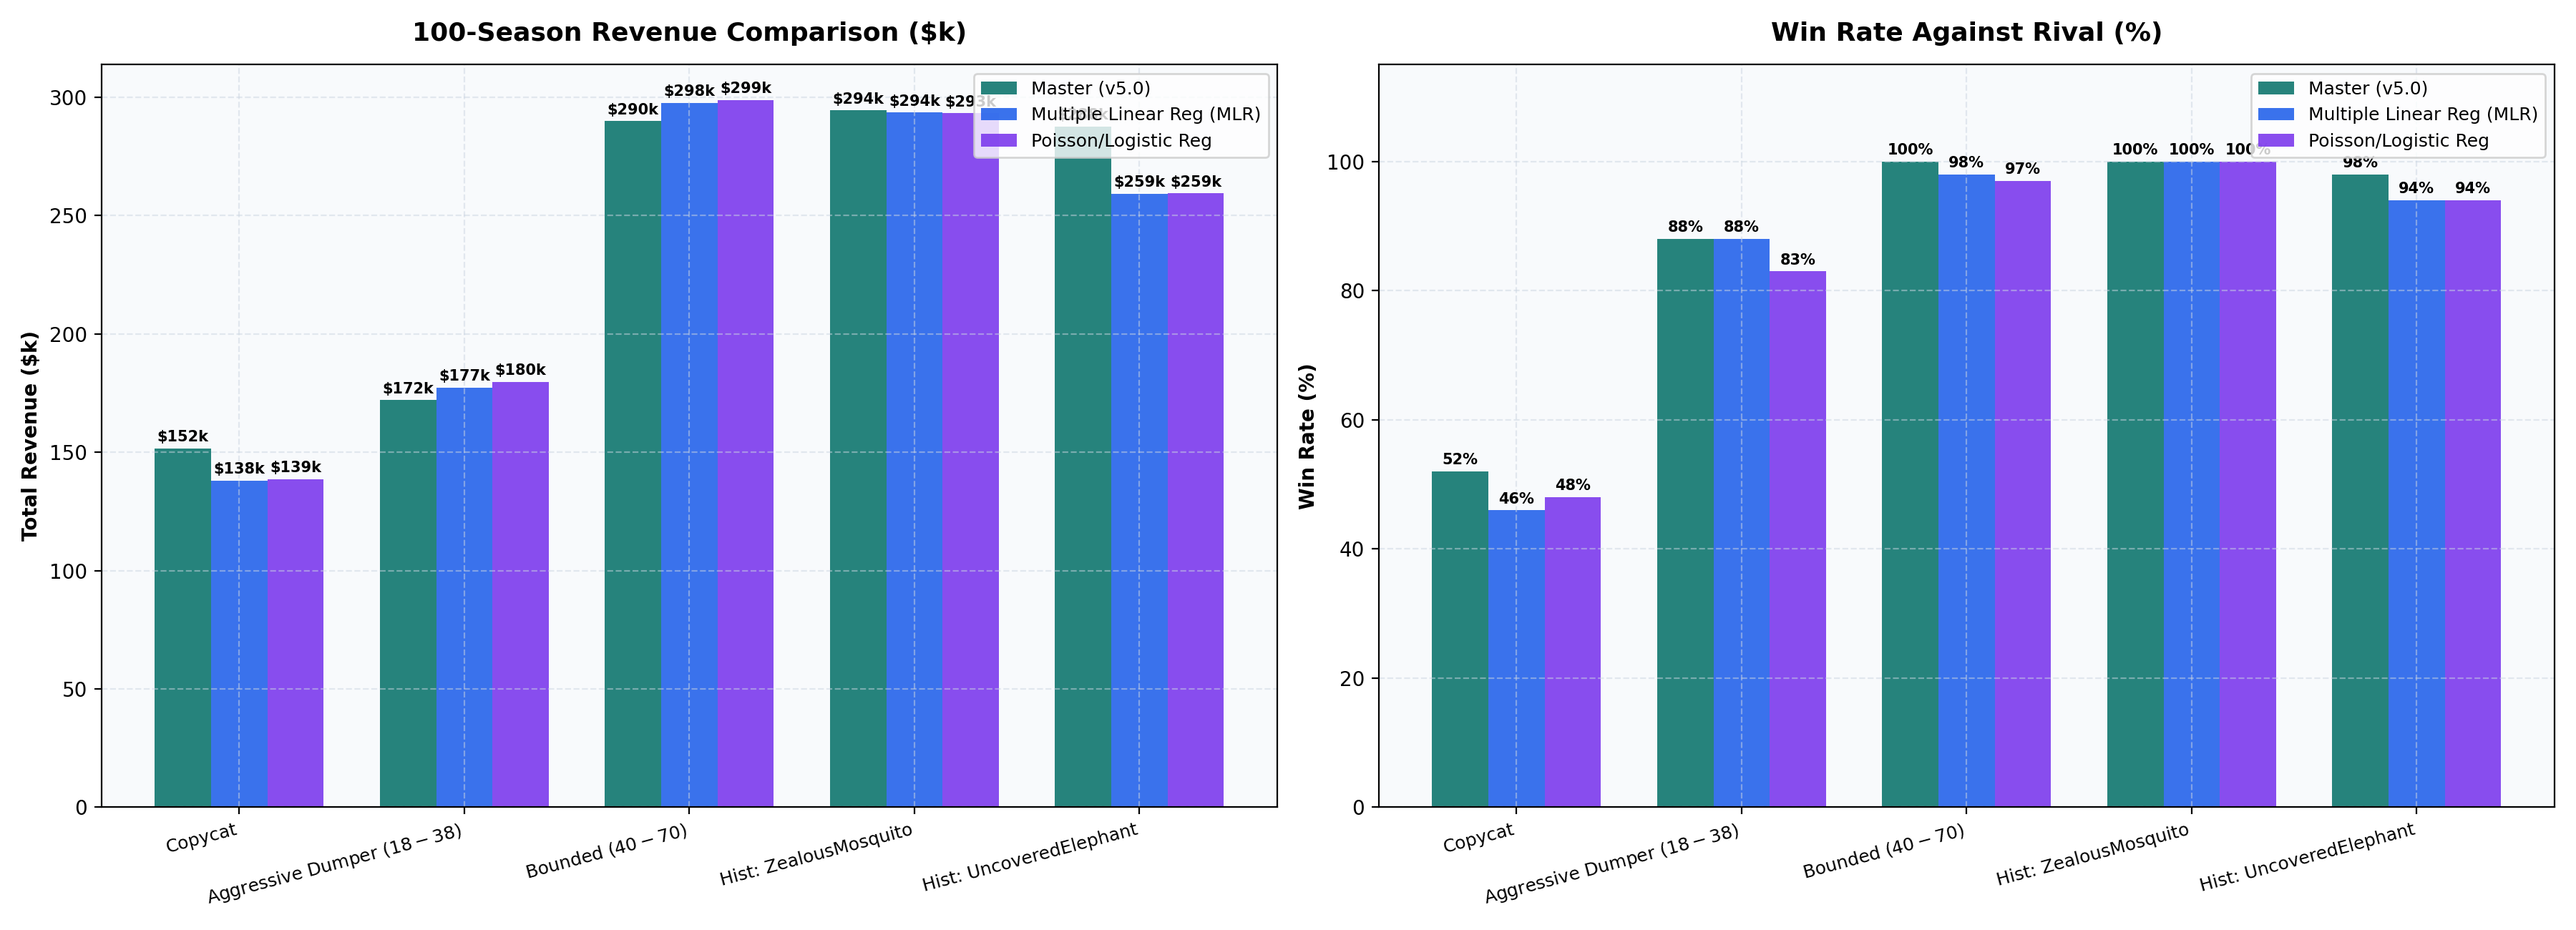
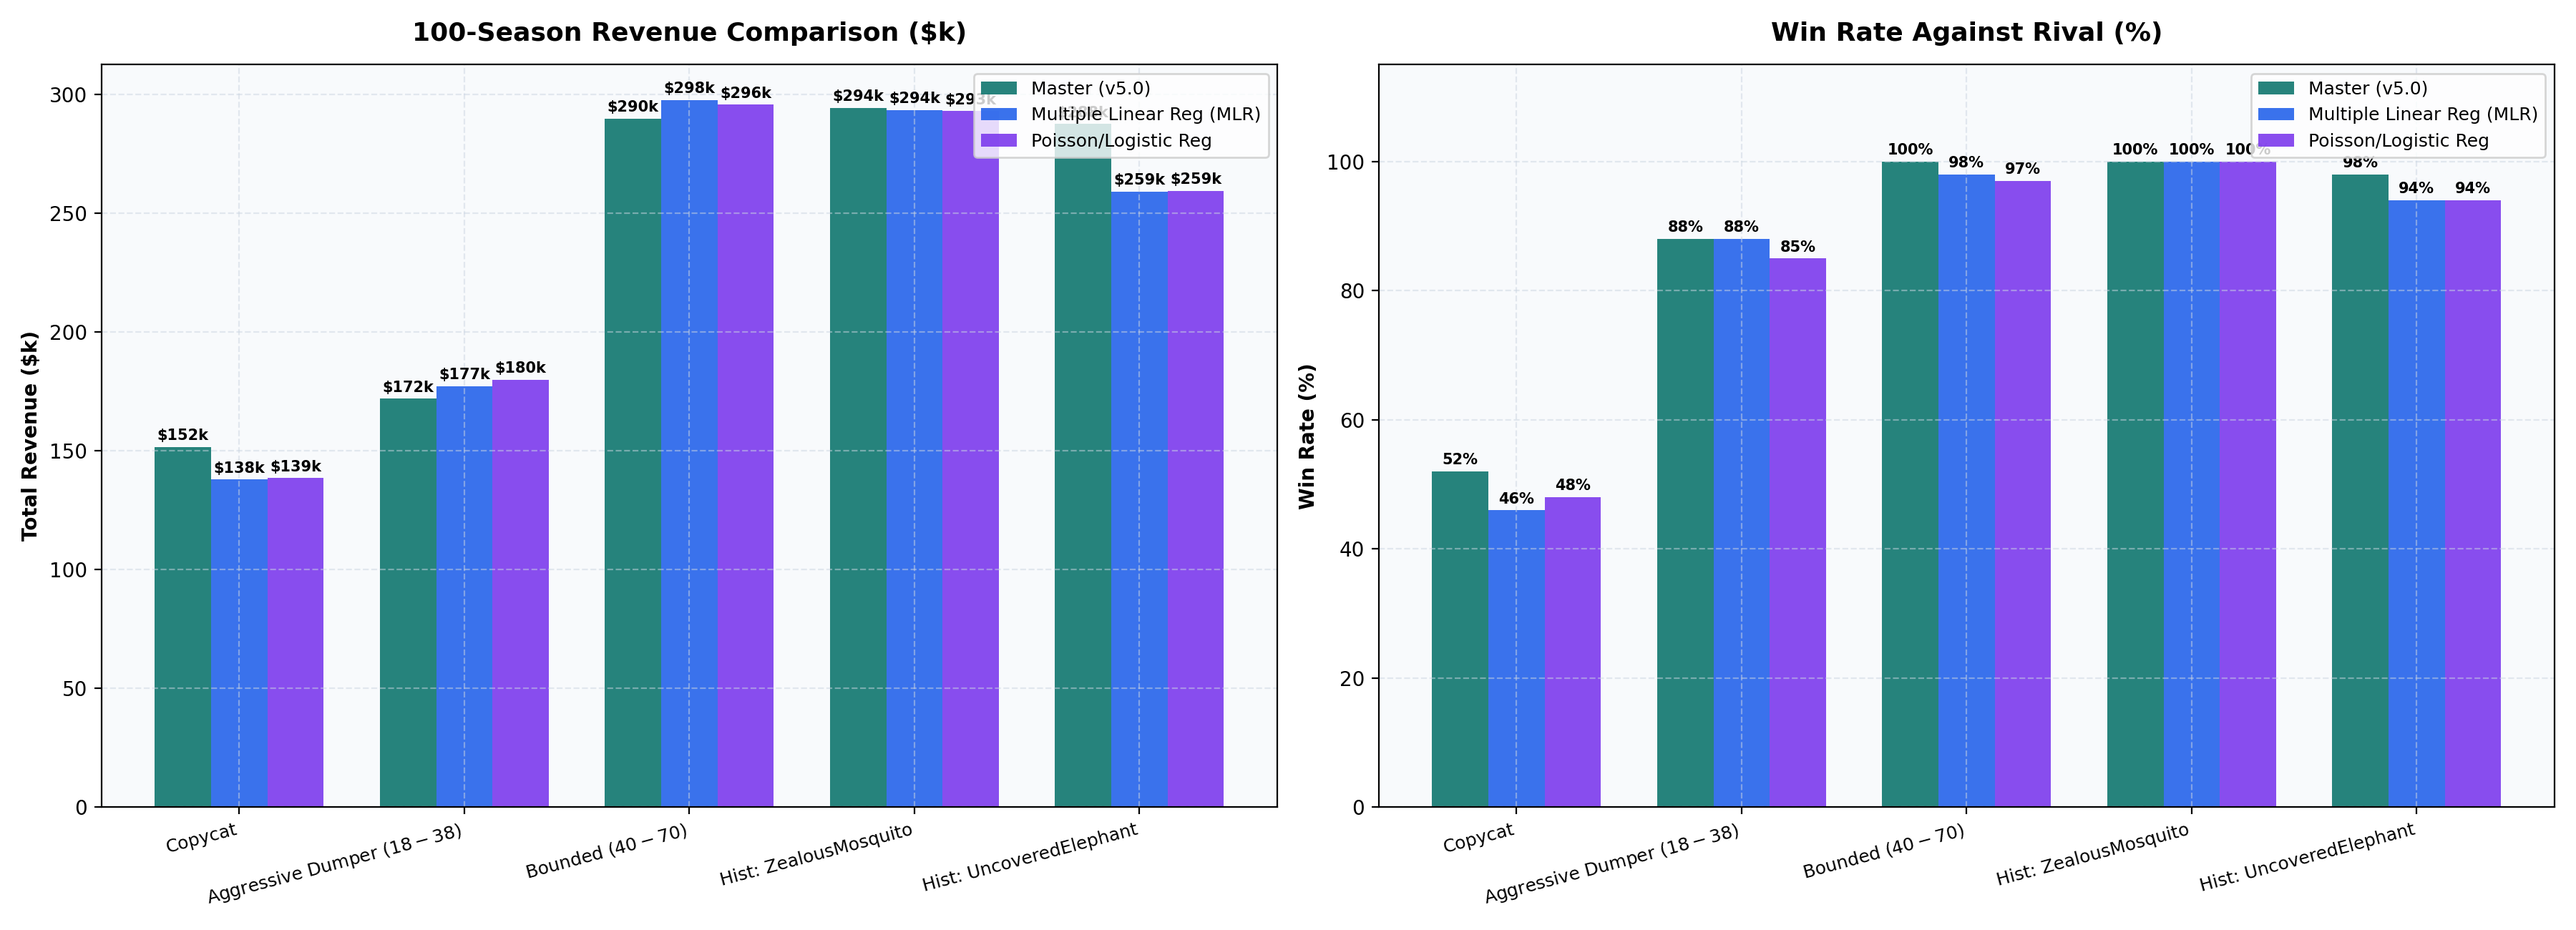
feat: implement intra-season holdout horizon guard and 3-regime profiler for MLR and Poisson-Logit

diff --git a/analytics/benchmark_3regime_models.py b/analytics/benchmark_3regime_models.py
@@ -1,0 +1,121 @@
+"""
+analytics/benchmark_3regime_models.py
+------------------------------------
+Head-to-head evaluation across 3 distinct macroeconomic market regimes:
+- Regime 1: High WTP (Valuations $45-$115, Premium travelers like v1/v4)
+- Regime 2: Medium WTP (Valuations $35-$92, Standard balanced market like v3)
+- Regime 3: Low WTP / Volume Surge (Valuations $25-$78, High volume like v5)
+
+Competitors:
+- CopycatCompetitor
+- AggressiveDumperCompetitor ($18-$38)
+- BoundedCompetitor ($40-$70)
+"""
+
+import os
+import sys
+import numpy as np
+import pandas as pd
+
+ROOT_DIR = os.path.abspath(os.path.join(os.path.dirname(__file__), '..'))
+ANALYTICS_DIR = os.path.join(ROOT_DIR, 'analytics')
+sys.path.append(ROOT_DIR)
+sys.path.append(ANALYTICS_DIR)
+
+import duopoly
+import duopoly_mlr
+import duopoly_poisson_logit
+
+from simulation_engine import (
+    DuopolySimulator,
+    CopycatCompetitor,
+    AggressiveDumperCompetitor,
+    BoundedCompetitor,
+    MarketDemandModel
+)
+
+class HighWTPMarket(MarketDemandModel):
+    def __init__(self, seed=42):
+        super().__init__(avg_arrivals=90, price_sensitivity=0.04, seed=seed)
+    def sample_customer_wtp(self, n, t):
+        return self.rng.uniform(45.0, 115.0, size=n)
+
+class MediumWTPMarket(MarketDemandModel):
+    def __init__(self, seed=42):
+        super().__init__(avg_arrivals=95, price_sensitivity=0.07, seed=seed)
+    def sample_customer_wtp(self, n, t):
+        return self.rng.uniform(35.0, 92.0, size=n)
+
+class LowWTPMarket(MarketDemandModel):
+    def __init__(self, seed=42):
+        super().__init__(avg_arrivals=130, arrival_convexity=2.0, price_sensitivity=0.12, seed=seed)
+    def sample_customer_wtp(self, n, t):
+        return self.rng.uniform(25.0, 78.0, size=n)
+
+def run_3regime_benchmark():
+    print("="*85)
+    print(" HEAD-TO-HEAD BENCHMARK ACROSS 3 MACROECONOMIC REGIMES")
+    print("="*85)
+
+    regimes = {
+        "Regime 1: High WTP ($45-$115)": HighWTPMarket,
+        "Regime 2: Medium WTP ($35-$92)": MediumWTPMarket,
+        "Regime 3: Low WTP Surge ($25-$78)": LowWTPMarket,
+    }
+
+    algorithms = {
+        "Master (duopoly.py)": duopoly.p,
+        "MLR (duopoly_mlr.py)": duopoly_mlr.p,
+        "Poisson/Logit (duopoly_poisson_logit.py)": duopoly_poisson_logit.p,
+    }
+
+    rivals = {
+        "Copycat": CopycatCompetitor(initial_price=60.0, undercut=0.0, noise=0.5),
+        "Aggressive Dumper": AggressiveDumperCompetitor(low=18.0, high=36.0),
+        "Bounded ($40-$70)": BoundedCompetitor(mean_price=55.0, spread=12.0)
+    }
+
+    records = []
+
+    for reg_name, market_cls in regimes.items():
+        print(f"\n>>> Evaluating {reg_name} <<<")
+        for algo_name, algo_func in algorithms.items():
+            algo_rev = 0.0
+            algo_wins = 0
+            total_matches = 0
+            
+            for riv_name, riv_agent in rivals.items():
+                market = market_cls(seed=123)
+                sim = DuopolySimulator(algorithm_func=algo_func, market_demand=market)
+                res = sim.run(riv_agent, n_seasons=15, competitor_name=riv_name)
+                s = res.summary()
+
+                algo_rev += s["our_total_revenue"]
+                algo_wins += s["seasons_won"]
+                total_matches += 15
+
+            win_rate = (algo_wins / float(total_matches)) * 100.0
+            avg_rev = algo_rev / float(total_matches)
+            records.append({
+                "Regime": reg_name,
+                "Algorithm": algo_name,
+                "Total Revenue ($k)": round(algo_rev / 1000.0, 2),
+                "Rev / Season ($)": round(avg_rev, 2),
+                "Win Rate (%)": round(win_rate, 1)
+            })
+            print(f"  {algo_name:<30}: Total Rev = ${algo_rev/1000.0:6.1f}k | Rev/Season = ${avg_rev:6.1f} | Win Rate = {win_rate:5.1f}%")
+
+    df_summary = pd.DataFrame(records)
+    print("\n" + "="*85)
+    print(" OVERALL AGGREGATE SCORECARD")
+    print("="*85)
+    agg = df_summary.groupby("Algorithm").agg({
+        "Total Revenue ($k)": "sum",
+        "Rev / Season ($)": "mean",
+        "Win Rate (%)": "mean"
+    }).reset_index().sort_values(by="Total Revenue ($k)", ascending=False)
+    print(agg.to_string(index=False))
+    return df_summary
+
+if __name__ == "__main__":
+    run_3regime_benchmark()

diff --git a/duopoly_poisson_logit.py b/duopoly_poisson_logit.py
@@ -37,6 +37,24 @@ PRIOR_GAMMA_0: float = 2.10      # Choice model intercept
 PRIOR_GAMMA_DIFF: float = 0.045  # Undercutting sensitivity
 PRIOR_GAMMA_OWN: float = 0.055   # Absolute price resistance
 
+REGIME_PRESETS_POISSON_LOGIT: Dict[str, Dict[str, Any]] = {
+    "regime_1_high": {
+        "alpha_0": -0.45, "alpha_1": 0.90,
+        "gamma_0": 0.087, "gamma_diff": 0.080, "gamma_own": 0.0035,
+        "sweet_spot": (74.0, 84.0), "max_price": 95.0
+    },
+    "regime_2_medium": {
+        "alpha_0": 0.15, "alpha_1": 1.10,
+        "gamma_0": 2.966, "gamma_diff": 0.090, "gamma_own": 0.077,
+        "sweet_spot": (64.0, 72.0), "max_price": 85.0
+    },
+    "regime_3_low": {
+        "alpha_0": 0.65, "alpha_1": 1.35,
+        "gamma_0": 5.475, "gamma_diff": 0.005, "gamma_own": 0.115,
+        "sweet_spot": (52.0, 62.0), "max_price": 68.0
+    }
+}
+
 
 # -----------------------------------------------------------------------------
 # Main Public Entrypoint (Competition Server Interface)
@@ -138,6 +156,7 @@ def _initialize_or_get_state(
         "rival_last_price": DEFAULT_NEUTRAL_PRICE,
         "price_demand_stats": {},
         "detected_low_wtp": False,
+        "detected_regime": "regime_2_medium",
         "alpha_0": PRIOR_ALPHA_0,
         "alpha_1": PRIOR_ALPHA_1,
         "gamma_0": PRIOR_GAMMA_0,
@@ -154,27 +173,45 @@ def _handle_season_transition(
     demand_history: Union[np.ndarray, List[int], None],
     state: Dict[str, Any]
 ) -> None:
-    """Updates low sales streak, evaluates WTP ceiling, and adapts baseline arrival rate."""
+    """Updates low sales streak, classifies macroeconomic regime, and adapts baseline arrival rate."""
     prev_season_sales = _calculate_units_sold(demand_history)
     state["consecutive_low_sales"] = (
         state.get("consecutive_low_sales", 0) + 1 if prev_season_sales < 42 else 0
     )
 
-    _evaluate_wtp_ceiling(state)
+    _classify_and_update_regime(state)
     _adapt_arrival_intensity(state)
 
     state["last_season_seen"] = new_season
     state["rival_recent_prices"] = []
 
 
-def _evaluate_wtp_ceiling(state: Dict[str, Any]) -> None:
-    """Checks whether high-priced tickets (>= $70) fail to convert in this tournament."""
+def _classify_and_update_regime(state: Dict[str, Any]) -> None:
+    """Classifies the market into one of 3 empirical regimes based on cumulative transaction stats."""
     stats_dict = state.get("price_demand_stats", {})
-    high_buckets = [b for b in stats_dict.keys() if b >= 70]
+    high_buckets = [b for b in stats_dict.keys() if b >= 75]
     high_periods = sum(stats_dict[b][1] for b in high_buckets)
     high_sales = sum(stats_dict[b][0] for b in high_buckets)
-    if high_periods >= 5 and high_sales == 0:
+
+    # 1. Low-WTP Surge (Regime 3, e.g. data/v5): zero sales at >= $75 after 4+ tests
+    if high_periods >= 4 and high_sales == 0:
+        state["detected_regime"] = "regime_3_low"
         state["detected_low_wtp"] = True
+    # 2. High-WTP Premium (Regime 1, e.g. data/v1/v4): > 25% conversion at >= $75
+    elif high_periods >= 4 and (high_sales / float(high_periods)) >= 0.25:
+        state["detected_regime"] = "regime_1_high"
+        state["detected_low_wtp"] = False
+    else:
+        state["detected_regime"] = "regime_2_medium"
+        state["detected_low_wtp"] = False
+
+    preset = REGIME_PRESETS_POISSON_LOGIT[state["detected_regime"]]
+    # Apply calibrated regime priors
+    state["alpha_0"] = preset["alpha_0"]
+    state["alpha_1"] = preset["alpha_1"]
+    state["gamma_0"] = preset["gamma_0"]
+    state["gamma_diff"] = preset["gamma_diff"]
+    state["gamma_own"] = preset["gamma_own"]
 
 
 def _adapt_arrival_intensity(state: Dict[str, Any]) -> None:
@@ -336,7 +373,10 @@ def _calculate_duopoly_price(
 
     # Branch 2: Deep Dumper Holdout
     if latest_rival_price <= 19.5 and rival_recent_avg <= 19.5:
-        return 58.0
+        min_periods_needed = int(np.ceil(remaining_capacity / 1.85))
+        safe_holdout_deadline = max(55, (TOTAL_SELLING_PERIODS + 1) - min_periods_needed)
+        if period < safe_holdout_deadline:
+            return 58.0
 
     # Branch 3: Poisson-Logistic Expected Surplus Optimization
     target_price = _solve_surplus_maximizing_price(

diff --git a/duopoly_mlr.py b/duopoly_mlr.py
@@ -34,6 +34,21 @@ DEFAULT_RIVAL_PRICE: float = 50.0
 MIN_OBSERVATIONS_FOR_TRAINING: int = 80
 TRAINING_WINDOW_SIZE: int = 2500
 
+REGIME_PRESETS_MLR: Dict[str, Dict[str, Any]] = {
+    "regime_1_high": {
+        "intercept": 0.605, "b_p": -0.0146, "b_riv": 0.0138, "b_diff": 0.0284, "b_t": 0.439,
+        "sweet_spot": (74.0, 84.0), "max_price": 95.0
+    },
+    "regime_2_medium": {
+        "intercept": 1.245, "b_p": -0.0171, "b_riv": -0.0022, "b_diff": 0.0149, "b_t": 0.714,
+        "sweet_spot": (64.0, 72.0), "max_price": 85.0
+    },
+    "regime_3_low": {
+        "intercept": 2.233, "b_p": -0.0258, "b_riv": -0.0131, "b_diff": 0.0128, "b_t": 0.833,
+        "sweet_spot": (52.0, 62.0), "max_price": 68.0
+    }
+}
+
 
 # -----------------------------------------------------------------------------
 # Main Public Entrypoint (Competition Server Interface)
@@ -141,7 +156,8 @@ def _initialize_or_get_state(
         "my_last_price": DEFAULT_NEUTRAL_PRICE,
         "rival_last_price": DEFAULT_NEUTRAL_PRICE,
         "price_demand_stats": {},
-        "detected_low_wtp": False
+        "detected_low_wtp": False,
+        "detected_regime": "regime_2_medium"
     }
 
 
@@ -153,27 +169,46 @@ def _handle_season_transition(
     demand_history: Union[np.ndarray, List[int], None],
     state: Dict[str, Any]
 ) -> None:
-    """Updates circuit breaker streak, checks WTP ceiling, and refits the MLR model."""
+    """Updates circuit breaker streak, classifies macroeconomic regime, and refits the MLR model."""
     prev_season_sales = _calculate_units_sold(demand_history)
     state["consecutive_low_sales"] = (
         state.get("consecutive_low_sales", 0) + 1 if prev_season_sales < 42 else 0
     )
 
-    _evaluate_wtp_ceiling(state)
+    _classify_and_update_regime(state)
     _fit_online_regression(state)
 
     state["last_season_seen"] = new_season
     state["rival_recent_prices"] = []
 
 
-def _evaluate_wtp_ceiling(state: Dict[str, Any]) -> None:
-    """Checks whether high-priced tickets (>= $70) fail to convert in this tournament."""
+def _classify_and_update_regime(state: Dict[str, Any]) -> None:
+    """Classifies the market into one of 3 empirical regimes based on cumulative transaction stats."""
     stats_dict = state.get("price_demand_stats", {})
-    high_buckets = [b for b in stats_dict.keys() if b >= 70]
+    high_buckets = [b for b in stats_dict.keys() if b >= 75]
     high_periods = sum(stats_dict[b][1] for b in high_buckets)
     high_sales = sum(stats_dict[b][0] for b in high_buckets)
-    if high_periods >= 5 and high_sales == 0:
+
+    # 1. Low-WTP Surge (Regime 3, e.g. data/v5): zero sales at >= $75 after 4+ tests
+    if high_periods >= 4 and high_sales == 0:
+        state["detected_regime"] = "regime_3_low"
         state["detected_low_wtp"] = True
+    # 2. High-WTP Premium (Regime 1, e.g. data/v1/v4): > 25% conversion at >= $75
+    elif high_periods >= 4 and (high_sales / float(high_periods)) >= 0.25:
+        state["detected_regime"] = "regime_1_high"
+        state["detected_low_wtp"] = False
+    else:
+        state["detected_regime"] = "regime_2_medium"
+        state["detected_low_wtp"] = False
+
+    preset = REGIME_PRESETS_MLR[state["detected_regime"]]
+    # Apply prior weights if not enough online observations to fit
+    if len(state.get("training_history", [])) < MIN_OBSERVATIONS_FOR_TRAINING:
+        state["mlr_intercept"] = preset["intercept"]
+        state["mlr_b_p"] = preset["b_p"]
+        state["mlr_b_riv"] = preset["b_riv"]
+        state["mlr_b_diff"] = preset["b_diff"]
+        state["mlr_b_t"] = preset["b_t"]
 
 
 def _fit_online_regression(state: Dict[str, Any]) -> None:
@@ -351,7 +386,10 @@ def _calculate_duopoly_price(
 
     # Branch 2: Deep Dumper Holdout
     if latest_rival_price <= 19.5 and rival_recent_avg <= 19.5:
-        return 58.0
+        min_periods_needed = int(np.ceil(remaining_capacity / 1.85))
+        safe_holdout_deadline = max(55, (TOTAL_SELLING_PERIODS + 1) - min_periods_needed)
+        if period < safe_holdout_deadline:
+            return 58.0
 
     # Branch 3: Closed-Form MLR Revenue Optimization
     target_price = _solve_closed_form_optimal_price(

diff --git a/duopoly.py b/duopoly.py
@@ -311,7 +311,13 @@ def _calculate_duopoly_price(
 
     # Branch 1: Deep Dumper Defense (FuturisticSalamander / RussetBat)
     if is_deep_dumper:
-        if failed_holdouts >= 2:
+        # Intra-Season Safe Holdout Horizon:
+        # At maximum monopoly absorption (~1.85 seats/period), liquidating remaining_capacity
+        # requires ceil(remaining_capacity / 1.85) periods. If remaining periods is less,
+        # waiting any longer guarantees terminal seat spoilage if rival fails to sell out.
+        min_periods_needed = int(np.ceil(remaining_capacity / 1.85))
+        safe_holdout_deadline = max(55, (TOTAL_SELLING_PERIODS + 1) - min_periods_needed)
+        if failed_holdouts >= 2 or period >= safe_holdout_deadline:
             anchor = 34.0 if inventory_gap > 3.0 else 38.0
             return anchor - min(6.0, 1.0 + 0.3 * max(0.0, inventory_gap))
         return 58.0
